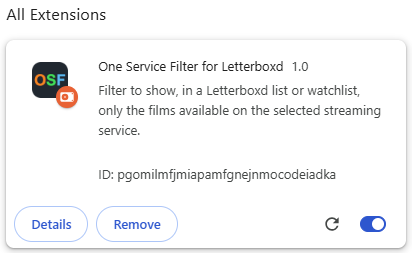
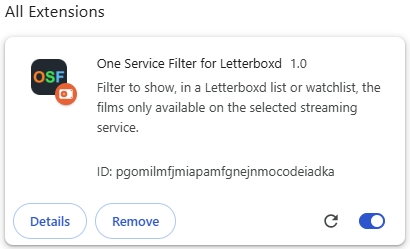
Update README.md

diff --git a/content.js b/content.js
@@ -1,9 +1,9 @@
 /*----------------------------------------------------------------*\
-  Author: Haraldo Filho
-  Date: Mar 21, 2025
-  Project name: One Service Filter for Letterboxd
-  Description: Filter to show, in a Letterboxd list or watchlist,
-    only the films available on the selected streaming service.
+Author: Haraldo Filho
+Date: Mar 21, 2025
+Project name: One Service Filter for Letterboxd
+Description: Filter to show, in a Letterboxd list or watchlist,
+the films only available on the selected streaming service.
 \*----------------------------------------------------------------*/
 
 (function () {
@@ -18,146 +18,146 @@
     localStorage.setItem("lastService", "");
     console.log("Menu item not loaded, page url is invalid.")
     return;
-  }
+    }
 
-  console.log("Menu item loaded, page url is valid.")
+    console.log("Menu item loaded, page url is valid.")
 
-  // If user is not logged in, do not load menu item
-  if (!document.body.getAttributeNode('class').value.includes("logged-in")) {return}
+    // If user is not logged in, do not load menu item
+    if (!document.body.getAttributeNode('class').value.includes("logged-in")) {return}
 
-  var films;
-  var numberOfFilms;
+    var films;
+    var numberOfFilms;
 
-  // Get Services menu
-  if (window.location.href.includes("/watchlist/")) {
+    // Get Services menu
+    if (window.location.href.includes("/watchlist/")) {
       films = document.getElementsByClassName('poster-list -p125 -grid -constrained')[0];
       if (!films) {
         films = document.getElementsByClassName('poster-list -p125 -grid -scaled128')[0];
       }
-  } else {
-    films = document.getElementsByClassName('js-list-entries poster-list -p125 -grid film-list')[0];
-  }
+    } else {
+      films = document.getElementsByClassName('js-list-entries poster-list -p125 -grid film-list')[0];
+    }
 
-  // If there are no films on the list for the selected service, end the script
-  try {
+    // If there are no films on the list for the selected service, end the script
+    try {
+      numberOfFilms = films.childNodes.length;
+    } catch {
+      return;
+    }
+
+    // Remove nodes which are not film nodes
+    for (let i = numberOfFilms-1; i >= 0; i--) {
+      var node = films.childNodes[i];
+      if (!node.attributes) {
+        films.removeChild(node);
+      }
+    }
+
     numberOfFilms = films.childNodes.length;
-  } catch {
-    return;
-  }
 
-  // Remove nodes which are not film nodes
-  for (let i = numberOfFilms-1; i >= 0; i--) {
-    var node = films.childNodes[i];
-    if (!node.attributes) {
-      films.removeChild(node);
+    // Create Services menu item to remove films
+    if (numberOfFilms > 0) {
+      var servicesMenu = document.getElementById('services-menu');
+      var newItem = document.createElement('LI');
+      var link = document.createElement('A');
+      const text = document.createTextNode('On selected service only');
+      newItem.setAttribute('class', '');
+      link.setAttribute('class', 'item');
+      link.setAttribute('style', 'cursor: pointer');
+      link.appendChild(text);
+      newItem.appendChild(link);
+      newItem.addEventListener('click', processPage);
+      servicesMenu.insertBefore(newItem, servicesMenu.children[3]);
     }
-  }
 
-  numberOfFilms = films.childNodes.length;
+    var servicesMenuItems = document.getElementById('services-menu').getElementsByClassName('item');
+    var servicesList = [];
+    var servicesUrls = [];
+    var currentService;
 
-  // Create Services menu item to remove films
-  if (numberOfFilms > 0) {
-    var servicesMenu = document.getElementById('services-menu');
-    var newItem = document.createElement('LI');
-    var link = document.createElement('A');
-    const text = document.createTextNode('On selected service only');
-    newItem.setAttribute('class', '');
-    link.setAttribute('class', 'item');
-    link.setAttribute('style', 'cursor: pointer');
-    link.appendChild(text);
-    newItem.appendChild(link);
-    newItem.addEventListener('click', processPage);
-    servicesMenu.insertBefore(newItem, servicesMenu.children[3]);
-  }
-
-  var servicesMenuItems = document.getElementById('services-menu').getElementsByClassName('item');
-  var servicesList = [];
-  var servicesUrls = [];
-  var currentService;
-
-  // Get available services from menu
-  for (let i = 8; i < servicesMenuItems.length - 2; i++) {
-    servicesList.push(servicesMenuItems[i].innerText);
-    servicesUrls.push(servicesMenuItems[i].href);
-    if (!servicesMenuItems[i].href) {
-      currentService = servicesMenuItems[i].innerText;
-    }
-  }
-
-  var lastService = localStorage.getItem("lastService");
-
-  console.log("Last Service: " + lastService);
-  console.log("Current Service: " + currentService);
-
-  if (currentService == lastService) {
-    processPage();
-  } else {
-    localStorage.setItem("lastService", "");
-  }
-
-  function processPage() {
-
-    localStorage.setItem("lastService", currentService);
-
-    newItem.setAttribute('class', ' smenu-subselected');
-
-    // If a service is selected, remove films
-    // which are available on other services
-    if (currentService) {
-      for (let i = 0; i < servicesUrls.length; i++) {
-        if (servicesUrls[i]) {
-          removeFilms(servicesUrls[i], i);
-        }
+    // Get available services from menu
+    for (let i = 8; i < servicesMenuItems.length - 2; i++) {
+      servicesList.push(servicesMenuItems[i].innerText);
+      servicesUrls.push(servicesMenuItems[i].href);
+      if (!servicesMenuItems[i].href) {
+        currentService = servicesMenuItems[i].innerText;
       }
     }
 
-    async function removeFilms(url, index) {
+    var lastService = localStorage.getItem("lastService");
 
-      // Get page content for other services
-      var pageObject = await fetch(url);
-      var pageText = await pageObject.text();
-      var serviceName = servicesList[index];
+    console.log("Last Service: " + lastService);
+    console.log("Current Service: " + currentService);
 
-      var node ;
-      var filmId;
-      var filmName;
+    if (currentService == lastService) {
+      processPage();
+    } else {
+      localStorage.setItem("lastService", "");
+    }
 
-      // Check if film is in another service and remove it
-      for (var i = films.childNodes.length-1; i >= 0; i--) {
-        try {
-          node = films.childNodes[i];
-          filmId = node.getElementsByTagName('div')[0].getAttributeNode('data-item-id').value;
-          if (pageText.search(filmId) != -1) {
-            films.removeChild(node);
-            try {
-              filmName = node.getElementsByTagName('div')[0].getAttributeNode('data-film-name').value;
-            } catch {filmName = filmId}
-            console.log("'" + filmName + "' removed. Available also on '" + serviceName + "'");
-            numberOfFilms--;
+    function processPage() {
+
+      localStorage.setItem("lastService", currentService);
+
+      newItem.setAttribute('class', ' smenu-subselected');
+
+      // If a service is selected, remove films
+      // which are available on other services
+      if (currentService) {
+        for (let i = 0; i < servicesUrls.length; i++) {
+          if (servicesUrls[i]) {
+            removeFilms(servicesUrls[i], i);
           }
-        } catch(err) {
-          console.log("ERROR: Unable to remove '" + filmName + "'.");
-          console.log("ERROR: " + err);
         }
       }
 
-      // Updated list header phrase with the number of films available only on the selected service
-      if (numberOfFilms > 1) {
-        var numberOfFilmsPhrase = "The " + numberOfFilms + " films in this page are only available on ";
-      } else if (numberOfFilms == 1) {
-        var numberOfFilmsPhrase = "The film in this page is only available on ";
-      } else {
-        var numberOfFilmsPhrase = "No films in this page are only available on ";
+      async function removeFilms(url, index) {
+
+        // Get page content for other services
+        var pageObject = await fetch(url);
+        var pageText = await pageObject.text();
+        var serviceName = servicesList[index];
+
+        var node ;
+        var filmId;
+        var filmName;
+
+        // Check if film is in another service and remove it
+        for (var i = films.childNodes.length-1; i >= 0; i--) {
+          try {
+            node = films.childNodes[i];
+            filmId = node.getElementsByTagName('div')[0].getAttributeNode('data-item-id').value;
+            if (pageText.search(filmId) != -1) {
+              films.removeChild(node);
+              try {
+                filmName = node.getElementsByTagName('div')[0].getAttributeNode('data-film-name').value;
+              } catch {filmName = filmId}
+              console.log("'" + filmName + "' removed. Available also on '" + serviceName + "'");
+              numberOfFilms--;
+            }
+          } catch(err) {
+            console.log("ERROR: Unable to remove '" + filmName + "'.");
+            console.log("ERROR: " + err);
+          }
+        }
+
+        // Updated list header phrase with the number of films available only on the selected service
+        if (numberOfFilms > 1) {
+          var numberOfFilmsPhrase = "The " + numberOfFilms + " films in this page are only available on ";
+        } else if (numberOfFilms == 1) {
+          var numberOfFilmsPhrase = "The film in this page is only available on ";
+        } else {
+          var numberOfFilmsPhrase = "No films in this page are only available on ";
+        }
+        numberOfFilmsPhrase += currentService + " (<a href=\"\/settings\/stores\/\">edit&nbsp;favorites</a>)."
+
+        document.getElementsByClassName('ui-block-heading')[0].innerHTML = numberOfFilmsPhrase;
+
+        // Remove clickable property of menu item
+        newItem.removeEventListener('click', processPage);
+        link.setAttribute('style', 'cursor: default');
+
       }
-      numberOfFilmsPhrase += currentService + " (<a href=\"\/settings\/stores\/\">edit&nbsp;favorites</a>)."
-
-      document.getElementsByClassName('ui-block-heading')[0].innerHTML = numberOfFilmsPhrase;
-
-      // Remove clickable property of menu item
-      newItem.removeEventListener('click', processPage);
-      link.setAttribute('style', 'cursor: default');
-
     }
-  }
 
 })();

diff --git a/README.md b/README.md
@@ -1,10 +1,10 @@
 # 'One Service Filter' for Letterboxd
 
-This a Chrome extension for [Letterboxd](https://letterboxd.com/), to filter a list or watchlist, showing only the films available on the selected streaming service. This is particularly useful, for example, for when you subscribe to a  service for just a month or two and want to prioritize the films which are available only on that sevice.
+This is a Chrome extension for [Letterboxd](https://letterboxd.com/), to filter a list or watchlist, showing the films only available on the selected streaming service. This is particularly useful, for example, for when you subscribe to a service for just a month or two and want to prioritize the films which are available only on that sevice.
 
 ## Installation
 
-This extension is not available on the [Chrome Web Store](https://chromewebstore.google.com/), so the only way to use it is by cloning this repository into your local computer and load it on Chrome:
+This extension is not available on the [Chrome Web Store](https://chromewebstore.google.com/) yet, so the only way to use it by now is by cloning this repository into your local computer and load it on Chrome:
 
 ```
 git clone https://github.com/HaraldoFilho/OneServiceFilter.git
@@ -24,7 +24,7 @@ _Sign In_ to [Letterboxd](https://letterboxd.com/) and go to a Watchlist or list
 
 ![SERVICE menu](images/img_3.png)
 
-Open the menu again and you will se an aditional option: **On selected service only**. 
+Open the menu again and you will se an aditional option: **On selected service only**.
 
 ![Additional option](images/img_4.png)
 
@@ -33,7 +33,6 @@ Click on it and the films available on other services will be removed from the l
 ![Filtered list](images/img_5.png)
 
 ### Some important notes
-- The extension doesn't work if you are not signed in.
-- The films are removed only from the current page you are visiting, if the list has more than one page you will need to execute these steps again for every page you visit. The films counting before you run the filter is for the entire list, but after is only for the page.
-
-
+- **The extension doesn't work if you are not signed in.**
+- The films are removed only from the current page you are visiting, but if the list has more than one page and the filter is active, every list page you visit will show the films which are only available on the selected service.
+- The films counting after you turn on the filter is only for the current page you are visiting, not for the entire list.
